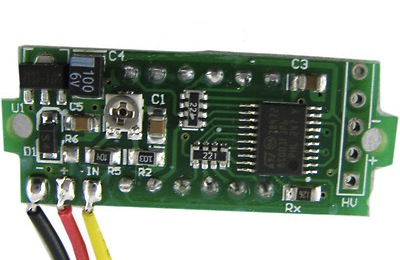
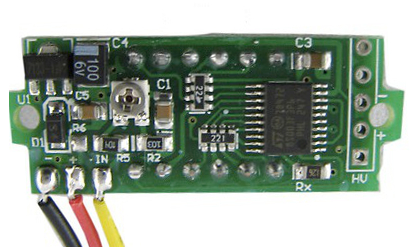
New photos, schematic .png's

diff --git a/Document/I2C-LED.html b/Document/I2C-LED.html
@@ -1,0 +1,129 @@
+LED voltmeters are a cheap source of 7 segment displays and can easily be repurposed.<br />
+<br />
+PHOTO OF MULTIPLEXED DISPLAYS<br />
+<br />
+<!--more--><br />
+<br />
+<h3>
+Hardware</h3>
+<br />
+<div>
+The hardware for this project can be bought from http://www.buyincoins.com/item/26010.html ("New 4 Digit 4.5-30V Stm8s003 Master Control Two Lines Red LED Digital Voltmeter") or http://www.buyincoins.com/item/26011.html ("4 Digit 4.5-30V Stm8s003 Master Control Two Lines Blue LED Digital in any way). Please note that I'm not associated with the seller in any way.</div>
+<br />
+<br />
+The original hardware was designed as a 4-digit voltmeter using STM8S003F3P6 MCU. The front looks like this:<br />
+<div class="separator" style="clear: both; text-align: center;">
+</div>
+<div class="separator" style="clear: both; text-align: center;">
+</div>
+<br />
+<div class="separator" style="clear: both; text-align: center;">
+</div>
+<div class="separator" style="clear: both; text-align: center;">
+<a href="http://3.bp.blogspot.com/-iFPcGzMI3so/Uhg9OJ19luI/AAAAAAAABaM/8upOZP0jfds/s1600/Original+Hardware+(front,+alternate).jpg" imageanchor="1" style="margin-left: 1em; margin-right: 1em;"><img border="0" height="175" src="http://3.bp.blogspot.com/-iFPcGzMI3so/Uhg9OJ19luI/AAAAAAAABaM/8upOZP0jfds/s320/Original+Hardware+(front,+alternate).jpg" width="320" /></a></div>
+<br />
+<br />
+<div>
+The back looks like this:</div>
+<br />
+<div class="separator" style="clear: both; text-align: center;">
+</div>
+<div class="separator" style="clear: both; text-align: center;">
+<a href="http://4.bp.blogspot.com/-kmCX5zvN1Rk/UhgsudDqmcI/AAAAAAAABZI/TaaDUcG2NMY/s1600/Original+Hardware+(back,+type+1).jpg" imageanchor="1" style="margin-left: 1em; margin-right: 1em;"><img border="0" height="173" src="http://4.bp.blogspot.com/-kmCX5zvN1Rk/UhgsudDqmcI/AAAAAAAABZI/TaaDUcG2NMY/s320/Original+Hardware+(back,+type+1).jpg" width="320" /></a></div>
+<br />
+<br />
+<div>
+Or possibly like this:</div>
+<br />
+<div class="separator" style="clear: both; text-align: center;">
+<a href="http://1.bp.blogspot.com/-Hxq-tDEs_r8/UhgsuHtytdI/AAAAAAAABZA/c8Mhtk5VDnE/s1600/Original+Hardware+(back,+type+2).jpg" imageanchor="1" style="margin-left: 1em; margin-right: 1em;"><img border="0" height="188" src="http://1.bp.blogspot.com/-Hxq-tDEs_r8/UhgsuHtytdI/AAAAAAAABZA/c8Mhtk5VDnE/s320/Original+Hardware+(back,+type+2).jpg" width="320" /></a></div>
+<br />
+<br />
+<div>
+The board is powered by providing between 3.5V and 30V between the red (positive) and black (negative) wires. A voltage regulator provides 3.3V to the STM8S chip which drives the LEDs. I sacrificed a voltmeter to try to recreate the schematic of the original hardware as best I could:</div>
+<br />
+<div class="separator" style="clear: both; text-align: center;">
+<a href="http://4.bp.blogspot.com/-Y5LU7JeE8xs/UhgqRRBU93I/AAAAAAAABYw/LpIhZgF6sS4/s1600/voltmeter.png" imageanchor="1" style="margin-left: 1em; margin-right: 1em;"><img border="0" height="213" src="http://4.bp.blogspot.com/-Y5LU7JeE8xs/UhgqRRBU93I/AAAAAAAABYw/LpIhZgF6sS4/s400/voltmeter.png" width="400" /></a></div>
+<br />
+<div>
+<br /></div>
+Step by step photo tutorial:<br />
+<br />
+<b>Step 1. </b>Orient the voltmeter face down with the chip on the left hand side. Desolder resistors R3 and RX.&nbsp;Solder a wire in hole 1 (marked with a square), trim and strip the loose end, and solder to the left hand pad under resistor RX.&nbsp;Solder two more wires into holes 4 and 5 of header HV. These connect to pins 4 (NRST) and 18 (SWIM) and are used in programming the&nbsp;STM8S&nbsp;chip.<br />
+<br />
+<div class="separator" style="clear: both; text-align: center;">
+<a href="http://2.bp.blogspot.com/-T4PuVSdne08/Uhg-WNtBEmI/AAAAAAAABa8/XPo041Dwk_s/s1600/hack2.jpg" imageanchor="1" style="margin-left: 1em; margin-right: 1em;"><img border="0" height="185" src="http://2.bp.blogspot.com/-T4PuVSdne08/Uhg-WNtBEmI/AAAAAAAABa8/XPo041Dwk_s/s320/hack2.jpg" width="320" /></a></div>
+<br />
+<div class="separator" style="clear: both; text-align: center;">
+</div>
+<div class="separator" style="clear: both; text-align: center;">
+</div>
+<br />
+<b>Step 2. </b>Solder a wire to the pad marked "IN" next to the red wire that carries the positive voltage. Apply flux to the very bottom pin on the left hand side the chip and very carefully solder to a length of solid core hookup wire. These two wires connect to pins 19 and 20 and carry the I2C SCL and SDA signals, respectively.<br />
+<div class="separator" style="clear: both; text-align: center;">
+</div>
+<br />
+<div class="separator" style="clear: both; text-align: center;">
+<a href="http://3.bp.blogspot.com/-5SY2c6PxHKI/Uhg-cwK9-hI/AAAAAAAABbE/8G5cIjKTBbU/s1600/hack3.jpg" imageanchor="1" style="margin-left: 1em; margin-right: 1em;"><img border="0" height="178" src="http://3.bp.blogspot.com/-5SY2c6PxHKI/Uhg-cwK9-hI/AAAAAAAABbE/8G5cIjKTBbU/s320/hack3.jpg" width="320" /></a></div>
+<div class="separator" style="clear: both; text-align: center;">
+<br /></div>
+<div class="separator" style="clear: both; text-align: center;">
+<br /></div>
+<b>Step 3.&nbsp;</b>Add shrink wrap and hot glue for strain relief. Solder pin headers to the loose ends of the wires.&nbsp; Bada bing!<br />
+<br />
+<div class="separator" style="clear: both; text-align: center;">
+</div>
+<div class="separator" style="clear: both; text-align: center;">
+<a href="http://4.bp.blogspot.com/-VfC7Mc2bsy4/Uhg-i6piPoI/AAAAAAAABbM/OkIJsNZY0SI/s1600/hack4.jpg" imageanchor="1" style="margin-left: 1em; margin-right: 1em;"><img border="0" height="203" src="http://4.bp.blogspot.com/-VfC7Mc2bsy4/Uhg-i6piPoI/AAAAAAAABbM/OkIJsNZY0SI/s320/hack4.jpg" width="320" /></a></div>
+<br />
+<br />
+<br />
+<div>
+The schematic of the hacked hardware looks like this:</div>
+<br />
+<br />
+<div class="separator" style="clear: both; text-align: center;">
+<a href="http://2.bp.blogspot.com/-kQAv8L7y7b0/UhgqRGGiRNI/AAAAAAAABYs/1SHji2cuu-Q/s1600/voltmeter-hack.png" imageanchor="1" style="margin-left: 1em; margin-right: 1em;"><img border="0" height="213" src="http://2.bp.blogspot.com/-kQAv8L7y7b0/UhgqRGGiRNI/AAAAAAAABYs/1SHji2cuu-Q/s400/voltmeter-hack.png" width="400" /></a></div>
+<div>
+<br /></div>
+<br />
+<br />
+<h3>
+Firmware</h3>
+<br />
+I adapted a similar project documented on this blog page: http://www.ba0sh1.com/hacking-a-cheap-led-voltmeter/ and in this github repository: https://github.com/baoshi/I2C-LED to modify the voltmeter into an I2C display device. The majority of the source code goes into bit banging the I2C slave protocol, as the original I2C pins are occupied by the LED. With full compiler optimization I2C clock up to 50kHz is supported.<br />
+<br />
+A emulation layer for the "Adafruit 4-Digit 7-Segment Display Backpack" http://www.adafruit.com/products/878 is also implemented. Original Adafruit Arduino demo codes are used for testing. Note that in order to run the Arduino code, the I2C clock needs to be reduced to 50 kHz.<br />
+<h3>
+<br />Reprogramming</h3>
+<br />
+STM8S discovery<br />
+<br />
+The free KickStart edition of "IAR Embedded Workbench for STMicroelectronics STM8" was used for development. STM8S/A Standard Peripherals Library (STM8S_StdPeriph_Driver V2.1.0: stsw-stm8069.zip from the http://www.st.com STM8 firmware page) was also needed.<br />
+<br />
+For one of the voltmeters, I had difficulty programming the MCU it had Read-out Protection activated. I couldn't figure out how to reset the option byte using IAR Embedded Workbench, but it was straightforward to do using STVD.<br />
+<br />
+<h3>
+Resources</h3>
+<br />
+<br />
+Github repository&nbsp;https://github.com/t0mpr1c3/I2C-LED<br />
+<br />
+connectors 3x4 pin female header, 4way male on ribbon cable, strip board<br />
+<br />
+||||||<br />
+|ffff|<br />
+|ffff|<br />
+|ffff|<br />
+|mmmm|<br />
+||||||<br />
+<br />
+<br />
+STM8S discovery as programmer<br />
+<br />
+Plan: use as temperature displays for brewery controller<br />
+<br />
+2 different layouts<br />
+<br />
+<br />
+<br />

diff --git a/readme.md b/readme.md
@@ -1,4 +1,4 @@
-#7-segment LED display with I2C interface
+# 7 segment LED display with I2C interface hacked from cheap voltmeter
 
 The hardware for this project can be bought from http://www.buyincoins.com/item/26010.html ("New 4 Digit 4.5-30V Stm8s003 Master Control Two Lines Red LED Digital Voltmeter") or http://www.buyincoins.com/item/26011.html ("4 Digit 4.5-30V Stm8s003 Master Control Two Lines Blue LED Digital in any way). Please note that I'm not associated with the seller in any way.
 
